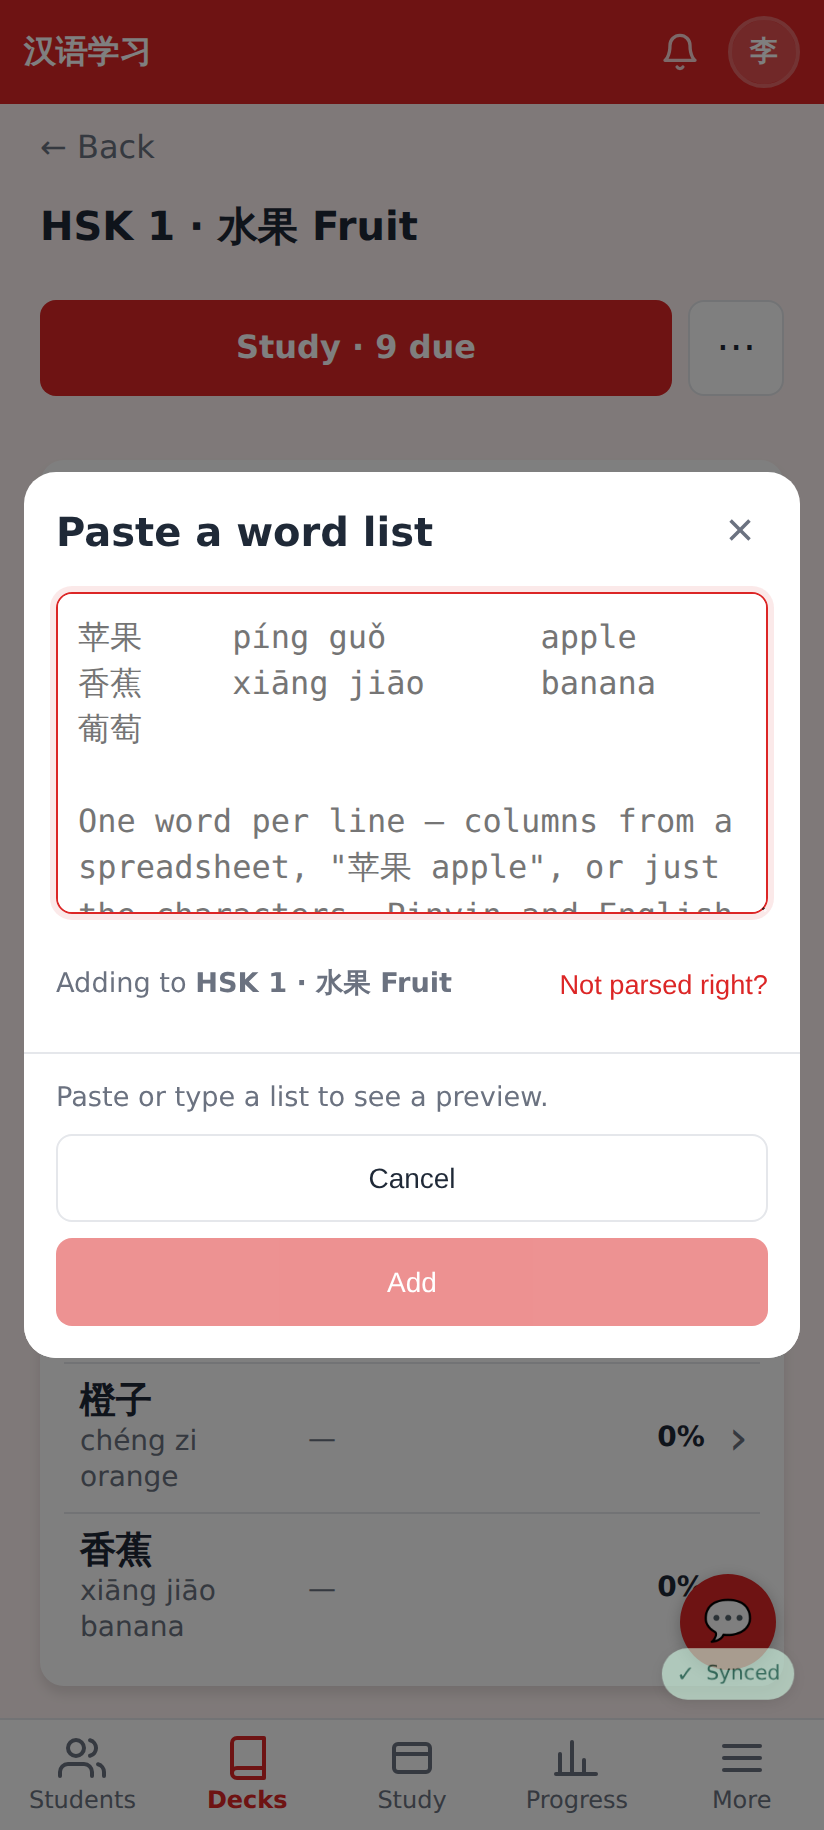
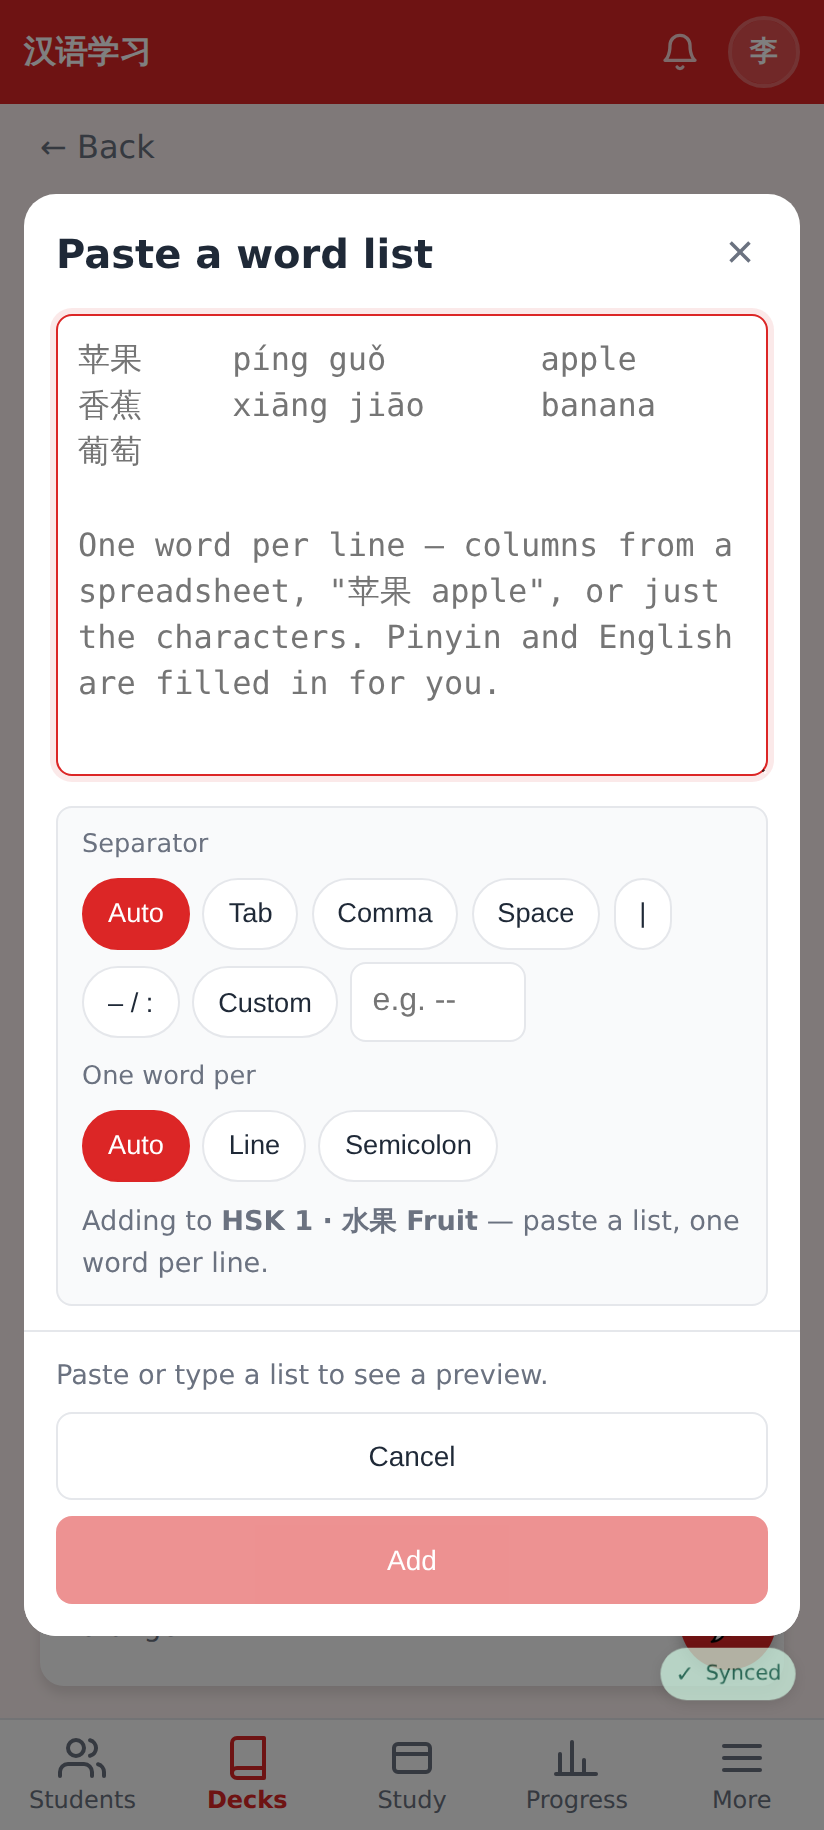
Paste list: separator picker always visible, custom separator box, taller text box
Per the tutor's video: the separator is the control she reaches for, so it
sits right under the text box instead of behind "Not parsed right?" — Auto
(detection, still the default) · Tab · Comma · Space · | · – / : · Custom,
with a box to type your own ("--" for "苹果 -- apple"; typing in it selects
Custom, clearing it goes back to Auto) — plus "One word per" Line /
Semicolon and a "Reading it as: …" caption. Text box grows to nine rows.
Guides, PR screenshots and the e2e spec (custom "--" case) updated.

Claude-Session: https://claude.ai/code/session_01NJxsogpeE7kG7VDC25KcBZ

diff --git a/frontend/src/components/import/PasteWordsModal.tsx b/frontend/src/components/import/PasteWordsModal.tsx
@@ -71,7 +71,6 @@ export function PasteWordsModal({ deckId, deckName, existingNotes, onClose, onIm
   const [columnSeparator, setColumnSeparator] = useState<ColumnSeparator>('auto');
   const [customSeparator, setCustomSeparator] = useState('');
   const [rowSeparator, setRowSeparator] = useState<RowSeparator>('auto');
-  const [showOptions, setShowOptions] = useState(false);
   const [policy, setPolicy] = useState<ExistingPolicy>('update');
   const [edits, setEdits] = useState<Map<string, RowEdit>>(new Map());
   const [suggested, setSuggested] = useState<Map<string, Suggestion>>(new Map());
@@ -322,44 +321,47 @@ export function PasteWordsModal({ deckId, deckName, existingNotes, onClose, onIm
               value={text}
               onChange={e => setText(e.target.value)}
               placeholder={PLACEHOLDER}
-              rows={6}
+              rows={9}
               aria-label="Word list"
               spellCheck={false}
             />
-            <div className="pw-detected">
-              {detectedCaption ? <span>Detected: {detectedCaption}</span> : <span>Adding to <strong>{deckName}</strong></span>}
-              <button type="button" className="pw-link" onClick={() => setShowOptions(v => !v)} aria-expanded={showOptions}>
-                {showOptions ? 'Hide options' : 'Not parsed right?'}
-              </button>
-            </div>
-            {showOptions && (
-              <div className="pw-options">
-                <div className="pw-option-row">
-                  <span className="pw-option-label">Between columns</span>
-                  {(['auto', 'tab', 'comma', 'space', 'pipe', 'colon', 'custom'] as ColumnSeparator[]).map(v => (
-                    <button
-                      key={v}
-                      type="button"
-                      className={`pw-pill${columnSeparator === v ? ' pw-pill--on' : ''}`}
-                      onClick={() => setColumnSeparator(v)}
-                    >
-                      {v === 'auto' ? 'Auto' : v === 'tab' ? 'Tab' : v === 'comma' ? 'Comma' : v === 'space' ? 'Space' : v === 'pipe' ? '|' : v === 'colon' ? '– / :' : 'Custom'}
-                    </button>
-                  ))}
-                  {columnSeparator === 'custom' && (
-                    <input className="form-input pw-custom" value={customSeparator} onChange={e => setCustomSeparator(e.target.value)} placeholder="e.g. =>" aria-label="Custom separator" />
-                  )}
-                </div>
-                <div className="pw-option-row">
-                  <span className="pw-option-label">Between words</span>
-                  {(['auto', 'newline', 'semicolon'] as RowSeparator[]).map(v => (
-                    <button key={v} type="button" className={`pw-pill${rowSeparator === v ? ' pw-pill--on' : ''}`} onClick={() => setRowSeparator(v)}>
-                      {v === 'auto' ? 'Auto' : v === 'newline' ? 'New line' : 'Semicolon'}
-                    </button>
-                  ))}
-                </div>
+            <div className="pw-options">
+              <div className="pw-option-row">
+                <span className="pw-option-label">Separator</span>
+                {(['auto', 'tab', 'comma', 'space', 'pipe', 'colon', 'custom'] as ColumnSeparator[]).map(v => (
+                  <button
+                    key={v}
+                    type="button"
+                    className={`pw-pill${columnSeparator === v ? ' pw-pill--on' : ''}`}
+                    onClick={() => setColumnSeparator(v)}
+                    aria-pressed={columnSeparator === v}
+                  >
+                    {v === 'auto' ? 'Auto' : v === 'tab' ? 'Tab' : v === 'comma' ? 'Comma' : v === 'space' ? 'Space' : v === 'pipe' ? '|' : v === 'colon' ? '– / :' : 'Custom'}
+                  </button>
+                ))}
+                <input
+                  className="form-input pw-custom"
+                  value={customSeparator}
+                  onChange={e => {
+                    setCustomSeparator(e.target.value);
+                    setColumnSeparator(e.target.value ? 'custom' : 'auto');
+                  }}
+                  placeholder="e.g. --"
+                  aria-label="Custom separator"
+                />
               </div>
-            )}
+              <div className="pw-option-row">
+                <span className="pw-option-label">One word per</span>
+                {(['auto', 'newline', 'semicolon'] as RowSeparator[]).map(v => (
+                  <button key={v} type="button" className={`pw-pill${rowSeparator === v ? ' pw-pill--on' : ''}`} onClick={() => setRowSeparator(v)} aria-pressed={rowSeparator === v}>
+                    {v === 'auto' ? 'Auto' : v === 'newline' ? 'Line' : 'Semicolon'}
+                  </button>
+                ))}
+              </div>
+              <div className="pw-detected">
+                {detectedCaption ? <span>Reading it as: {detectedCaption}</span> : <span>Adding to <strong>{deckName}</strong> — paste a list, one word per line.</span>}
+              </div>
+            </div>
 
             {parsed.rows.length > 0 && (
               <div className="pw-controls">

diff --git a/e2e/tests/paste-words.spec.ts b/e2e/tests/paste-words.spec.ts
@@ -63,7 +63,7 @@ test('paste a list: preview, fill with Claude, save, update the student copy', a
   await expect(dialog.getByRole('heading', { name: 'Paste a word list' })).toBeVisible();
 
   await dialog.getByLabel('Word list').fill('苹果\tpíng guǒ\tapple\n香蕉\txiāng jiāo\tbanana (fruit)\n葡萄\nhello\tworld');
-  await expect(dialog.getByText(/Detected: tab between columns · 4 rows/)).toBeVisible();
+  await expect(dialog.getByText(/Reading it as: tab between columns · 4 rows/)).toBeVisible();
   await expect(dialog.getByText('New', { exact: true })).toHaveCount(1);
   await expect(dialog.getByText('Update', { exact: true })).toHaveCount(1);
   await expect(dialog.getByText('Needs english')).toBeVisible();
@@ -109,8 +109,14 @@ test('a WeChat-style space separated list and hanzi-only lines parse', async ({ 
   await page.locator('.header').waitFor({ timeout: 30000 });
   await page.getByRole('button', { name: /Paste a list/ }).click();
   const dialog = page.getByRole('dialog');
+  // A custom separator typed into the box takes over from auto-detection
+  await dialog.getByLabel('Word list').fill('咖啡 -- coffee\n火车 -- train');
+  await dialog.getByLabel('Custom separator').fill('--');
+  await expect(dialog.getByText(/Reading it as: your separator · 2 rows/)).toBeVisible();
+  await expect(dialog.getByRole('button', { name: /^咖啡/ })).toContainText('coffee');
+  await dialog.getByLabel('Custom separator').fill('');
   await dialog.getByLabel('Word list').fill('1. 咖啡 kāfēi coffee\n2. 火车 huǒ chē train\n3. 朋友');
-  await expect(dialog.getByText(/Detected: spaces between word, pinyin and meaning · 3 rows/)).toBeVisible();
+  await expect(dialog.getByText(/Reading it as: spaces between word, pinyin and meaning · 3 rows/)).toBeVisible();
   await expect(dialog.getByText('New', { exact: true })).toHaveCount(2);
   await expect(dialog.getByText('Needs english')).toBeVisible();
   // Type the missing English inline and save

diff --git a/frontend/src/components/import/PasteWordsModal.css b/frontend/src/components/import/PasteWordsModal.css
@@ -13,11 +13,7 @@
 }
 
 .pw-detected {
-  display: flex;
-  justify-content: space-between;
-  align-items: center;
-  gap: 0.75rem;
-  margin: 0.4rem 0 0.75rem;
+  margin-top: 0.15rem;
   font-size: 0.85rem;
   color: var(--color-text-light);
 }
@@ -37,8 +33,8 @@
   display: flex;
   flex-direction: column;
   gap: 0.5rem;
-  padding: 0.75rem;
-  margin-bottom: 0.75rem;
+  padding: 0.6rem 0.75rem;
+  margin: 0.5rem 0 0.75rem;
   border: 1px solid var(--color-border);
   border-radius: var(--radius-md);
   background: var(--color-bg, #f9fafb);
@@ -75,8 +71,9 @@
 }
 
 .pw-custom {
-  width: 7rem;
+  width: 5.5rem;
   min-height: 36px;
+  font-size: 1rem;
 }
 
 .pw-controls {

diff --git a/docs/TUTOR_GUIDE.zh-CN.md b/docs/TUTOR_GUIDE.zh-CN.md
@@ -321,7 +321,7 @@
 <img src="guide-images/paste-words.png" width="300">
 
 1. **粘贴**到框里，一行一个词。从表格复制来的是 `汉字 [Tab] 拼音 [Tab] 英文`；微信消息那样的 `苹果 píngguǒ apple` 或 `苹果 - apple` 也可以；只有汉字的列表（`葡萄`）同样可以。第四列如果是中文，会当作例句；表头那一行会自动跳过。
-2. **Detected: …（识别为……）** 说明程序是怎么读这段文字的。如果不对，点 **Not parsed right?（识别错了？）**，自己选列之间用什么分隔（Tab、逗号、空格、`|`、`–`/`:` 或自定义）、词之间用什么分隔（换行或分号）。
+2. **Separator（分隔符）** —— 一行里各部分之间用什么隔开。**Auto（自动）** 能处理从表格或聊天里复制来的内容；也可以选 Tab、逗号、空格、`|`、`–`/`:`，或者在小框里输入自己的分隔符（比如写成 `苹果 -- apple` 就填 `--`）。**One word per（每个词占）** 一行或用分号隔开。下面的 "Reading it as: …（读作……）" 说明程序是怎么理解这段文字的。
 3. **Words already in this deck（卡组里已有的词）** —— *Update them*（更新，默认：用粘贴的拼音、释义、备注或例句替换旧的，学生在这张卡上的学习记录不受影响）、*Leave them as they are*（保持原样）或 *Add again as new cards*（再加一张新卡）。
 4. 预览把各行分组：**Needs attention（需要处理）**（没有中文，或英文还缺）、**Updates（要更新的）**（显示 旧 → 新）、**New words（新词）**、**Skipped（跳过）**（同一个词粘了两次）和 **Already the same（没有变化）**。缺的**拼音**会立刻在手机上补好；缺的**英文**点一下 **✨ Fill in English with Claude（让 Claude 补英文）** 整个列表一起补。自动补上的内容会带 ✨ 标记，直到你改过它；多音字的单字词会提示"check the reading（确认读音）"。
 5. 点某一行可以修改它的汉字、拼音、英文或例句，或勾选 **Skip this row（跳过这一行）**。

diff --git a/docs/pr-screenshots/paste-words/README.md b/docs/pr-screenshots/paste-words/README.md
@@ -9,13 +9,13 @@ The deck page: **📋 Paste list** next to **+ Add word** (also in the empty-dec
 The empty sheet. The placeholder shows the three shapes it takes: spreadsheet columns, "苹果 apple", or bare characters.
 
 ![Preview after pasting six mixed rows: detected separators, policy select, grouped rows with New / Update / No Chinese chips](03-preview.png)
-Straight after pasting: "Detected: tab between columns · 6 rows", the policy for words already in the deck, and the rows grouped as Needs attention / Updates / New words. 香蕉 shows the change it would make (english: ~~banana~~ → banana (the fruit)); 葡萄 and 草莓 had only characters, so pinyin was filled in on the device (✨) and they need English.
+Straight after pasting: "Reading it as: tab between columns · 6 rows", the policy for words already in the deck, and the rows grouped as Needs attention / Updates / New words. 香蕉 shows the change it would make (english: ~~banana~~ → banana (the fruit)); 葡萄 and 草莓 had only characters, so pinyin was filled in on the device (✨) and they need English.
 
 ![After Fill in English with Claude: the two bare words now carry ✨ glosses and count as New](04-filled.png)
 After **✨ Fill in English with Claude**: the bare words are complete and counted in the button. Anything filled in stays marked ✨ until it is edited.
 
-![The Not parsed right? options: separator pills for columns and rows](05-options.png)
-**Not parsed right?** opens the overrides: Auto / Tab / Comma / Space / | / – : / Custom between columns, New line / Semicolon between words.
+![A custom separator typed into the box: "--" lines split into hanzi and English](05-custom-separator.png)
+The separator strip is always visible under the text box: Auto / Tab / Comma / Space / | / – : / Custom, with a box for your own (here `--`), and one word per Line / Semicolon.
 
 ![A row expanded into inline hanzi / pinyin / English / sentence inputs with a Skip this row checkbox](06-edit-row.png)
 Tapping a row opens it for editing (hanzi, pinyin, English, optional example sentence) with **Skip this row**.

diff --git a/docs/TUTOR_GUIDE.md b/docs/TUTOR_GUIDE.md
@@ -467,9 +467,10 @@ lesson — and paste it. Deck page → **📋 Paste list**.
    `汉字 [tab] pinyin [tab] English`; a chat message like `苹果 píngguǒ apple` or
    `苹果 - apple` works too; so does a bare list of characters (`葡萄`). A fourth column
    with Chinese in it becomes the example sentence; a header row is skipped.
-2. **Detected: …** says how the text was read. If it looks wrong, **Not parsed right?**
-   lets you choose what sits between columns (tab, comma, space, `|`, `–`/`:`, or your
-   own) and between words (new line or semicolon).
+2. **Separator** — what sits between the parts of a line. **Auto** works for pastes from a
+   spreadsheet or a chat; or pick Tab, Comma, Space, `|`, `–`/`:`, or type your own in the
+   box (for example `--` if you write `苹果 -- apple`). **One word per** line or semicolon.
+   "Reading it as: …" under the pills says how the text was understood.
 3. **Words already in this deck** — *Update them* (the default: the pasted pinyin,
    meaning, notes or sentence replace the old ones, and the student's review history on
    that card is untouched), *Leave them as they are*, or *Add again as new cards*.
